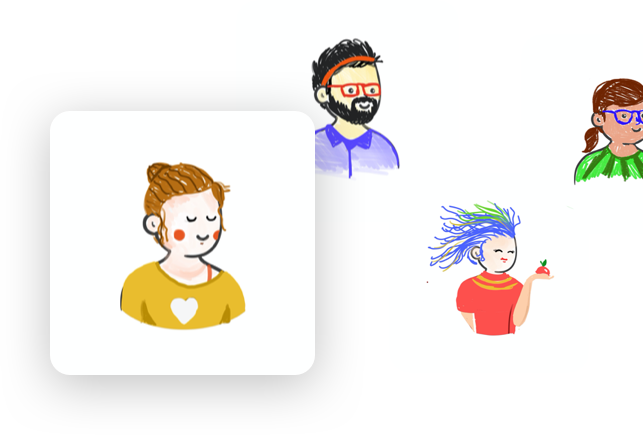
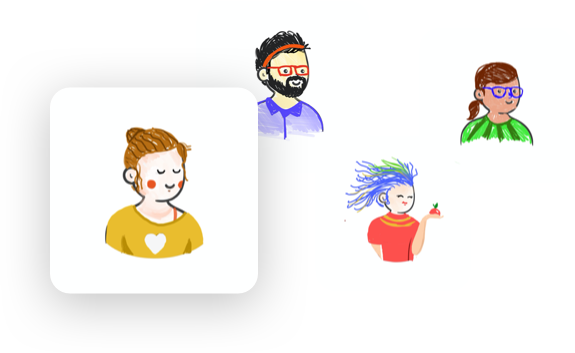
Fix: responsive and change images

diff --git a/layouts/index/About.tsx b/layouts/index/About.tsx
@@ -6,7 +6,7 @@ import Container from "components/Container";
 export default function About(): ReactElement {
   return (
     <AboutWrapper as="section" id="#about" name="about">
-      <Container>
+      <Container className="container">
         <Box alignItems="center">
           <img
             src="/images/user-paints.png"
@@ -54,12 +54,14 @@ const AboutWrapper = styled(Box)`
   }
 
   @media (max-width: ${p => p.theme.mobile}) {
-    flex-direction: column;
     height: auto;
     padding: 35px 0px;
-    img {
-      height: 100%;
-      width: 100%;
+    .container {
+      flex-direction: column;
+      img {
+        height: 100%;
+        width: 100%;
+      }
     }
   }
 `;

diff --git a/layouts/index/StayAtHome.tsx b/layouts/index/StayAtHome.tsx
@@ -28,7 +28,7 @@ export default function StayAtHome(): ReactElement {
 
       <DownloadDefault column alignItems="center" justifyContent="center">
         <img src="/images/default.png" alt="" />
-        <a href="/images/default.png" download>
+        <a href="/images/khoone-bemoon.jpg" download>
           <Button outline>دانلود قالب </Button>
         </a>
       </DownloadDefault>
